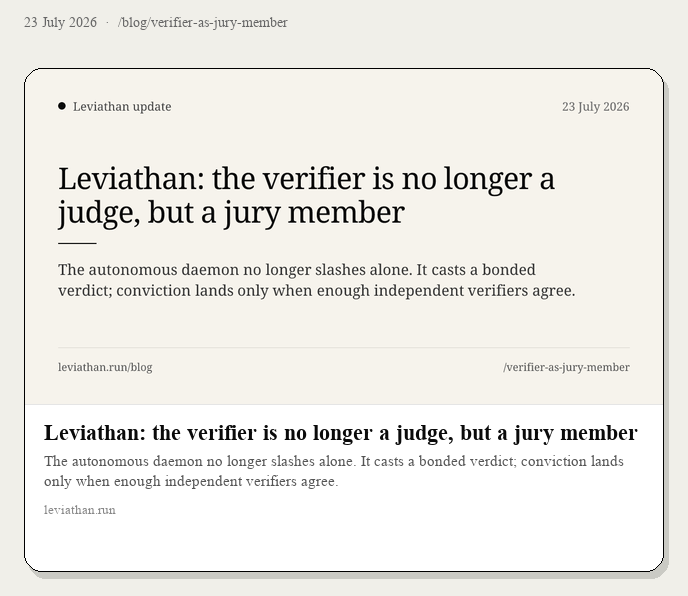
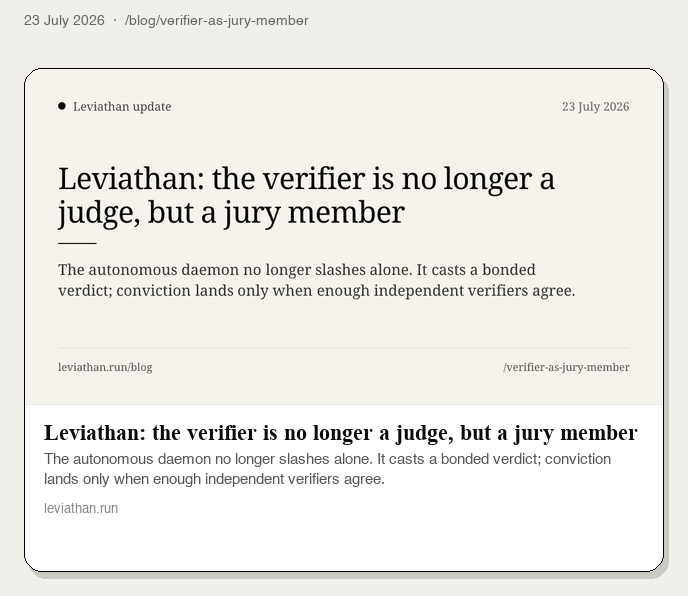
chore: generate blog link previews on every og and build
Add scripts/generate-link-previews.py and wire it into og:generate and build so each post ships with X-style card mockups under public/previews.

diff --git a/scripts/generate-link-previews.py b/scripts/generate-link-previews.py
@@ -1,0 +1,211 @@
+#!/usr/bin/env python3
+"""Build X-style summary_large_image mockups for every blog post in catalog.json.
+
+Run after generate-og.mjs so public/og/<slug>.png exists.
+Outputs:
+  public/previews/cards/<slug>.png
+  public/previews/all-blog-link-previews.png
+  public/previews/all-blog-link-previews-grid.png
+"""
+
+from __future__ import annotations
+
+import json
+import sys
+from pathlib import Path
+
+try:
+    from PIL import Image, ImageDraw, ImageFont
+except ImportError:
+    print("Pillow required: pip install Pillow", file=sys.stderr)
+    sys.exit(1)
+
+ROOT = Path(__file__).resolve().parents[1]
+CATALOG = ROOT / "src" / "blog" / "catalog.json"
+OG_DIR = ROOT / "public" / "og"
+OUT_DIR = ROOT / "public" / "previews"
+CARDS_DIR = OUT_DIR / "cards"
+
+FONT_CANDIDATES = [
+    "/System/Library/Fonts/Supplemental/Times New Roman Bold.ttf",
+    "/System/Library/Fonts/Supplemental/Times New Roman.ttf",
+    "/Library/Fonts/Arial.ttf",
+    "/System/Library/Fonts/Helvetica.ttc",
+]
+
+
+def load_font(size: int, bold: bool = False) -> ImageFont.ImageFont:
+    preferred = []
+    for p in FONT_CANDIDATES:
+        path = Path(p)
+        if not path.exists():
+            continue
+        name = path.name.lower()
+        if bold and "bold" in name:
+            preferred.insert(0, path)
+        elif not bold and "bold" not in name:
+            preferred.insert(0, path)
+        else:
+            preferred.append(path)
+    for path in preferred:
+        try:
+            return ImageFont.truetype(str(path), size)
+        except Exception:
+            continue
+    return ImageFont.load_default()
+
+
+def wrap_text(draw: ImageDraw.ImageDraw, text: str, font, max_width: int) -> list[str]:
+    words = text.split()
+    lines: list[str] = []
+    cur = ""
+    for w in words:
+        trial = (cur + " " + w).strip()
+        bbox = draw.textbbox((0, 0), trial, font=font)
+        if bbox[2] - bbox[0] <= max_width:
+            cur = trial
+        else:
+            if cur:
+                lines.append(cur)
+            cur = w
+    if cur:
+        lines.append(cur)
+    return lines
+
+
+CARD_W = 640
+IMG_H = 336
+PAD = 20
+TEXT_AREA = 168
+CARD_H = IMG_H + TEXT_AREA
+RADIUS = 18
+
+
+def make_card(post: dict) -> Image.Image:
+    og_path = OG_DIR / f"{post['slug']}.png"
+    if not og_path.exists():
+        raise FileNotFoundError(f"missing OG art (run og:generate first): {og_path}")
+
+    card = Image.new("RGB", (CARD_W, CARD_H), "#ffffff")
+    draw = ImageDraw.Draw(card)
+
+    og = Image.open(og_path).convert("RGB")
+    og = og.resize((CARD_W, IMG_H), Image.Resampling.LANCZOS)
+    card.paste(og, (0, 0))
+    draw.line([(0, IMG_H), (CARD_W, IMG_H)], fill="#e5e5e5", width=1)
+
+    title_font = load_font(22, bold=True)
+    desc_font = load_font(15)
+    domain_font = load_font(13)
+    label_font = load_font(14)
+
+    x = PAD
+    y = IMG_H + 16
+    max_w = CARD_W - PAD * 2
+
+    for line in wrap_text(draw, post["title"], title_font, max_w)[:2]:
+        draw.text((x, y), line, font=title_font, fill="#0a0a0a")
+        y += 28
+    y += 4
+
+    for line in wrap_text(draw, post["description"], desc_font, max_w)[:3]:
+        draw.text((x, y), line, font=desc_font, fill="#555555")
+        y += 20
+    y += 10
+
+    draw.text((x, min(y, CARD_H - 28)), "leviathan.run", font=domain_font, fill="#888888")
+
+    mask = Image.new("L", (CARD_W, CARD_H), 0)
+    ImageDraw.Draw(mask).rounded_rectangle(
+        [0, 0, CARD_W - 1, CARD_H - 1], radius=RADIUS, fill=255
+    )
+
+    paper = Image.new("RGBA", (CARD_W + 48, CARD_H + 48), (240, 239, 233, 255))
+    shadow = Image.new("RGBA", paper.size, (0, 0, 0, 0))
+    ImageDraw.Draw(shadow).rounded_rectangle(
+        [28, 30, 28 + CARD_W, 30 + CARD_H], radius=RADIUS, fill=(0, 0, 0, 40)
+    )
+    paper = Image.alpha_composite(paper, shadow)
+
+    card_rgba = card.convert("RGBA")
+    card_rgba.putalpha(mask)
+    paper.paste(card_rgba, (24, 24), card_rgba)
+    ImageDraw.Draw(paper).rounded_rectangle(
+        [24, 24, 24 + CARD_W - 1, 24 + CARD_H - 1],
+        radius=RADIUS,
+        outline=(0, 0, 0, 50),
+        width=1,
+    )
+
+    final = Image.new("RGB", (paper.width, paper.height + 44), "#f0efe9")
+    final.paste(paper.convert("RGB"), (0, 44))
+    fd = ImageDraw.Draw(final)
+    fd.text(
+        (24, 14),
+        f"{post.get('dateLabel', post.get('date', ''))}  ·  /blog/{post['slug']}",
+        font=label_font,
+        fill="#666666",
+    )
+    return final
+
+
+def main() -> None:
+    posts = json.loads(CATALOG.read_text())
+    CARDS_DIR.mkdir(parents=True, exist_ok=True)
+
+    cards: list[tuple[dict, Image.Image]] = []
+    for post in posts:
+        img = make_card(post)
+        out = CARDS_DIR / f"{post['slug']}.png"
+        img.save(out, "PNG", optimize=True)
+        cards.append((post, img))
+        print(f"wrote {out.relative_to(ROOT)} ({img.size[0]}x{img.size[1]})")
+
+    if not cards:
+        print("no posts in catalog")
+        return
+
+    gap = 28
+    widths = [c[1].width for c in cards]
+    heights = [c[1].height for c in cards]
+    W = max(widths) + 64
+    H = sum(heights) + gap * (len(cards) + 1) + 80
+    montage = Image.new("RGB", (W, H), "#e8e6df")
+    md = ImageDraw.Draw(montage)
+    header = load_font(28, bold=True)
+    sub = load_font(16)
+    md.text((32, 28), "Leviathan blog · X link previews", font=header, fill="#0a0a0a")
+    md.text(
+        (32, 64),
+        "summary_large_image cards as shared on leviathan.run/blog/*",
+        font=sub,
+        fill="#555555",
+    )
+    y = 100
+    for _, img in cards:
+        x = (W - img.width) // 2
+        montage.paste(img, (x, y))
+        y += img.height + gap
+    stack_path = OUT_DIR / "all-blog-link-previews.png"
+    montage.save(stack_path, "PNG", optimize=True)
+    print(f"wrote {stack_path.relative_to(ROOT)} ({montage.size[0]}x{montage.size[1]})")
+
+    cols = 2
+    cell_w = max(widths) + 24
+    cell_h = max(heights) + 24
+    rows = (len(cards) + cols - 1) // cols
+    grid = Image.new("RGB", (cell_w * cols + 40, cell_h * rows + 100), "#e8e6df")
+    gd = ImageDraw.Draw(grid)
+    gd.text((32, 28), "Leviathan blog · link previews (grid)", font=header, fill="#0a0a0a")
+    for i, (_, img) in enumerate(cards):
+        r, c = divmod(i, cols)
+        x = 20 + c * cell_w + (cell_w - img.width) // 2
+        y = 90 + r * cell_h + 8
+        grid.paste(img, (x, y))
+    grid_path = OUT_DIR / "all-blog-link-previews-grid.png"
+    grid.save(grid_path, "PNG", optimize=True)
+    print(f"wrote {grid_path.relative_to(ROOT)} ({grid.size[0]}x{grid.size[1]})")
+
+
+if __name__ == "__main__":
+    main()

diff --git a/README.md b/README.md
@@ -71,6 +71,11 @@ Regenerate cards locally:
 npm run og:generate
 ```
 
+That also rebuilds X-style link preview mockups under `public/previews/`
+(per-post cards + stack + grid). Every new blog post must ship with those
+previews; `npm run build` runs the same pipeline.
+
+
 ## Links
 
 - Network: https://github.com/wienerlabs/leviathan-net
